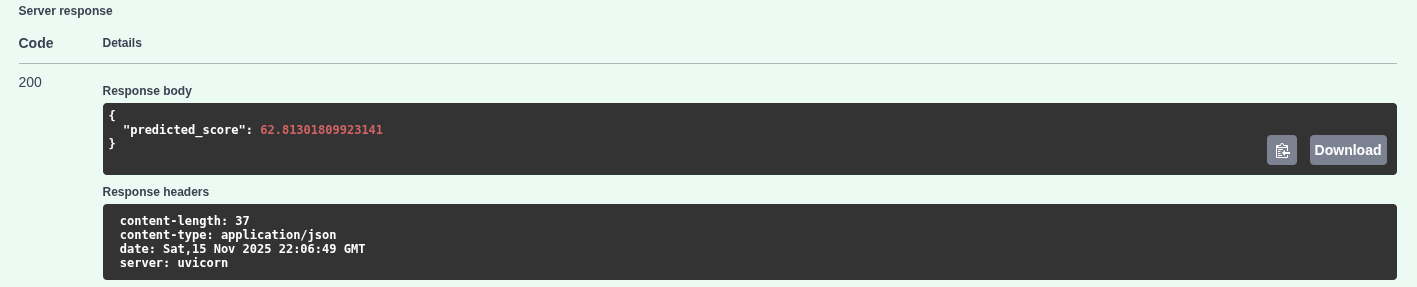
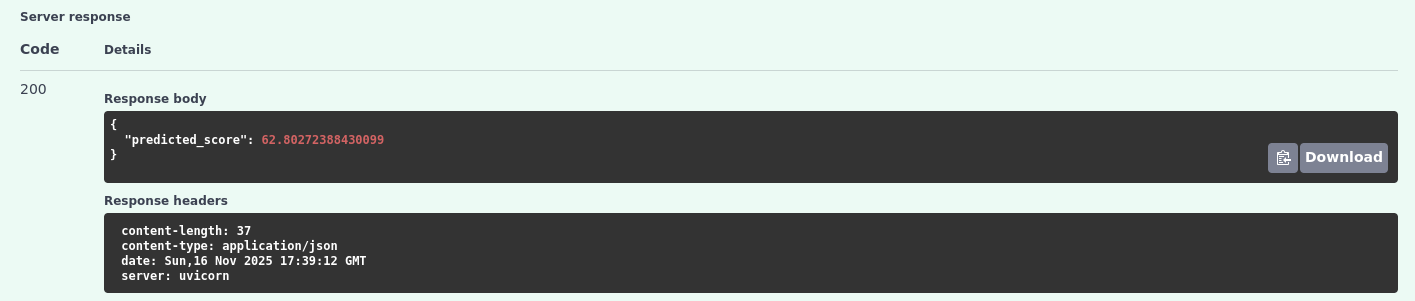
Modify README.md. Add server-reponse.png figure.

diff --git a/README.md b/README.md
@@ -2,21 +2,21 @@
 
 ## 1. Problem statement
 
-### Student Performance Prediction (SPP)**
+### Student Performance Prediction (SPP)
 
-This project aims to analyze and predict student academic performance using machine learning. By leveraging the Student Performance Factors dataset from Kaggle, the study explores how various demographic, social, and educational factors influence students’ success in their studies.
+This project aims to analyze and predict student academic performance using machine learning. By leveraging the Student Performance Factors dataset from Kaggle, the study explores how various demographic, social, and educational factors influence students’ success in their studies.  
 
-The main objective is to develop a predictive model capable of identifying key factors that contribute to academic outcomes, providing valuable insights for educators, policymakers, and institutions seeking to improve learning effectiveness.
+The main objective is to develop a predictive model capable of identifying key factors that contribute to academic outcomes, providing valuable insights for educators, policymakers, and institutions seeking to improve learning effectiveness.  
 
-The project includes data preprocessing, exploratory data analysis (EDA), feature selection, model training, and performance evaluation using multiple ML algorithms. The final model can be used to forecast student performance and assist in early intervention strategies for at-risk learners.
+The project includes data preprocessing, exploratory data analysis (EDA), feature selection, model training, and performance evaluation using multiple ML algorithms. The final model can be used to forecast student performance and assist in early intervention strategies for at-risk learners.  
 
 ### Project summary
 
-Problem: predict student academic performance.
-Target: 'Exam Score'
-Objective: this project aims to predict students at risk of low academic performance using demographic, social, and educational data.
-Evaluation metric: RMSE
-How the model can be used: the model can serve as an early warning system — enabling educators and decision-makers to take proactive, data-informed actions that improve learning outcomes and reduce dropout or failure rates.
+Problem: predict student academic performance.  
+Target: 'Exam Score'.  
+Objective: this project aims to predict students at risk of low academic performance using demographic, social, and educational data.  
+Evaluation metric: RMSE.  
+How the model can be used: the model can serve as an early warning system — enabling educators and decision-makers to take proactive, data-informed actions that improve learning outcomes and reduce dropout or failure rates.  
 
 ### Project structure
 ```
@@ -94,9 +94,9 @@ During the initial data exploration, three categorical features were found to co
 | parental_education_level | 90 | 
 | distance_from_home | 67 | 
 
-In total, 229 records where found with one of these columns with missing values.
+In total, 229 records where found with one of these columns with missing values.  
 
-Since these missing values represent only a small portion of the dataset (approximately 3.5% of all records) and all affected columns are categorical, the decision was made to replace the missing entries with the category "Unknown".
+Since these missing values represent only a small portion of the dataset (approximately 3.5% of all records) and all affected columns are categorical, the decision was made to replace the missing entries with the category "Unknown".  
 
 ### Target Variable Distribution
 
@@ -108,6 +108,8 @@ This histogram shows:
 * Very few students scored below 59 or above 76, which means low and high scores are rare.
 
 * The distribution is a roughly bell-shaped distribution centered in the 67-69, with the majority of students performing close to this central range, with only a few exceptional high achievers (outliers).
+
+Note: A record with Exam score of 101 was removed from the dataset.
 
 ### Features Distributions
 
@@ -183,28 +185,22 @@ Model performance was assessed using the Root Mean Squared Error (RMSE) metric, 
 
 | Model	| RMSE |
 | ----------- | ----------- |
-| Linear Regression | 2.263 |
-| Decision Tree Regressor | 2.870 |
-| Random Forest Regressor | 2.518 |
-| XGBoost | 2.303 |
+| Linear Regression | 1.993 |
+| Decision Tree Regressor | 2.707 |
+| Random Forest Regressor | 2.309 |
+| XGBoost | 2.071 |
 
-Among all tested models, Linear Regression achieved the lowest RMSE (2.263), closely followed by XGBoost (2.303).
+Among all tested models, Linear Regression achieved the lowest RMSE (1.993), closely followed by XGBoost (2.071).
 
 ### Model Evaluation Summary
 
 To assess the model’s ability to generalize to unseen data, a 5-fold cross-validation procedure was applied. The resulting RMSE scores and the data associated with across the folds were:  
 
-| RMSE scores | Scores mean | Standard deviation | Full training RMSE |
+| 5-fold RMSE scores | Scores mean | Standard deviation | Full training RMSE |
 | ----------- | ----------- | ----------- | ----------- |
-| 1.88 - 2.29 - 2.14 - 2.21 - 1.94 | 2.0918 | 0.1585 | 1.8033 |
+| 2.035 - 2.400 - 2.202 - 2.204 - 1.718 | 2.112 | 0.2283 | 1.521 |
 
-The low standard deviation indicates that the model performs consistently across different subsets of the data, showing good robustness and reliability.
-
-The gap between the training RMSE (1.80) and the cross-validation RMSE (2.09) is small, indicating only mild and acceptable overfitting. This is expected for a well-performing model and suggests that the model learns meaningful patterns rather than memorizing the data.
-
-Compared to baseline models tested earlier (Linear Regression, Random Forest, XGBoost), this model achieves superior RMSE performance, confirming the effectiveness of the selected algorithm and hyperparameters.
-
-Conclusion: the model demonstrates strong and stable generalization performance.
+The model shows stable performance across folds, with a relatively small standard deviation (0.2283), indicating low variance. The full-training RMSE (1.521) is lower than the cross-validated mean RMSE, which is expected since the model trains on more data. Overall, the results suggest the model generalizes reasonably well, without strong signs of overfitting.
 
 ## 5. How to run
 ### Prerequisites
@@ -215,8 +211,8 @@ Conclusion: the model demonstrates strong and stable generalization performance.
 ### Clone the repository
  
 ```bash
-$ git clone https://github.com/<your-username>/<your-repo-name>.git`  
-$ cd <your-repo-name>
+git clone https://github.com/<your-username>/<your-repo-name>.git`  
+cd <your-repo-name>
 ```
 
 ## A. Build and Run the Application Using Docker
@@ -224,14 +220,14 @@ $ cd <your-repo-name>
 ### Build the Docker Image
 From the root directory of the project, build the image using:
 ```bash
-$ docker build -t student-score-prediction.
+docker build -t student-score-prediction .
 ```
 This command creates a Docker image named student-score-prediction based on the configuration in the Dockerfile.
 
 ### Run the Container
 Once the image has been built, start a container using:
 ```bash
-$ docker run -it --rm -p 8000:8000 student-score-prediction
+docker run -it --rm -p 8000:8000 student-score-prediction
 ```
 This command launches a Docker container that allow predict.py to run and make score predictions.
 
@@ -239,15 +235,15 @@ This command launches a Docker container that allow predict.py to run and make s
 
 ### Set Up the Environment
 ```bash
-$ uv venv
-$ source .venv/bin/activate      # On Linux/Mac
+uv venv
+source .venv/bin/activate      # On Linux/Mac
 # or
-$ .venv\Scripts\activate         # On Windows
+.venv\Scripts\activate         # On Windows
 ```
 
 ### Install Dependencies
 ```bash
-$ uv pip install -e .
+uv sync
 ```
 This will automatically read the dependencies listed in pyproject.toml and install them in your environment.
 
@@ -255,16 +251,9 @@ This will automatically read the dependencies listed in pyproject.toml and insta
 
 - To start the prediction API:  
 ```bash
-$ python src/student_performance_prediction/predict.py
+python src/student_performance_prediction/predict.py
 ```
 This script launches a FastAPI application that loads the trained model (model.bin) and provides an endpoint to predict student exam scores based on input data (JSON format).
-
-### Train the model (additional)
-- To train the model:  
-```bash
-$ python src/student_performance_prediction/train.py
-```
-This script loads the dataset, trains the model, and creates the serialized model file model.bin using pickle.
 
 # 6. Making request
 
@@ -277,12 +266,12 @@ You can make predictions request via browser.
 2. Run the predict.py file.
 ```bash
 student-performance-prediction
-$ python predict.py
+python predict.py
 ```
 
 3. Open a new terminal and entry this example request:
 ```bash
-$ curl -X 'POST' \
+curl -X 'POST' \
   'http://127.0.0.1:8000/predict' \
   -H 'accept: application/json' \
   -H 'Content-Type: application/json' \
@@ -325,7 +314,7 @@ student-performance-prediction
     "previous_scores": 90, 
     "motivation_level": "low", 
 }'  "gender": "female"e": "far", college", 
-{"predicted_score":62.81301809923141}
+{"predicted_score":62.80272388430099}
 ```
 ## Via Browser
 You can make predictions request via browser.
@@ -334,7 +323,7 @@ You can make predictions request via browser.
 2. Run the predict.py file.
 ```bash
 student-performance-prediction
-$ python predict.py
+python predict.py
 ```
 3. Open a browser and access to: http://localhost:8000/docs
 ![Score Prediction docs](images-Readme/locahost-docs-1.png)
@@ -342,10 +331,10 @@ $ python predict.py
 4. Drop down the green box.
 ![Drop down green box](images-Readme/localhost-docs-drop-down-box.png)
 
-5. Click on "Try out" button.
-![Click Try out](images-Readme/localhost-docs-click-try-out.png)
+5. Click on "Try it out" button.
+![Click Try it out](images-Readme/localhost-docs-click-try-out.png)
 
-6. Replace the json object in the "Edit Value | Schema" box for a  
+6. Replace the json object in the "Edit Value | Schema" box for:   
 ```
 {
     "hours_studied": 15, 
@@ -373,7 +362,7 @@ $ python predict.py
 7. Click on Execute.
 
 8. The exam score prediction is shown below.
-![Score prediction](images-Readme/server-reponse.png)
+![Score prediction](images-Readme/server-response.png)
 
 ## Via running serve.py file
 You can make predictions request via browser.
@@ -386,7 +375,7 @@ You can make predictions request via browser.
 
 4. Run the serve.py (which is used mainly for testing purpose).
 ```bash
-$ python src/student_performance_prediction/serve.py
+python src/student_performance_prediction/serve.py
 ```
 
 5. The exam score prediction appears in the console.
@@ -408,4 +397,5 @@ Also, many features are self-reported (e.g., motivation, peer influence), which 
 
 The dataset reflects only a single moment in time. Student performance is dynamic and often changes across semesters, which cannot be captured here.
 
-As a next step we could suggest to try more another models like Gradient Boosting or Neural Networks.
+Next step: we could suggest to try more another models like Gradient Boosting or Neural Networks.
+
